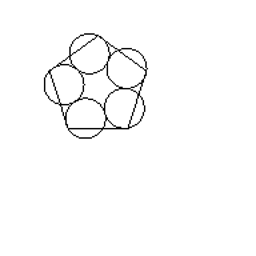
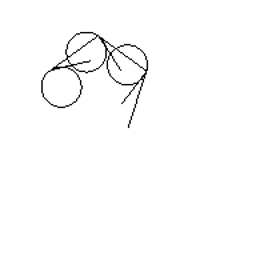
more message passing

Changed region(s): [[0.1562, 0.125, 0.5938, 0.5625], [0.5, 0.4375, 0.5625, 0.5], [0.5625, 0.4062, 0.5938, 0.4375]]

diff --git a/src/flatland/lispy/primitives.py b/src/flatland/lispy/primitives.py
@@ -59,60 +59,50 @@ class DAG(Procedure):
     def __init__(self, body, env):
         super().__init__((), body, env)
 
-    def __call__(self, node):
+    def __call__(self, snode):
         env = Env((), (), self.env)
         for expr in self.body:
             evalf(expr, env)
-        env[node].store()
-        env[node]()
+
+        start = dict(position=(64, 64), heading=0)
+        messages = [(snode, start)]
+
+        while len(messages) > 0:
+            msg = messages.pop(0)
+            node, data = msg
+            if data:
+                print("Processing:", node, data)
+                results = env[node](data)
+                messages = messages + results
 
 
 class Node(Procedure):
-    def __init__(self, name, body, env):
-        super().__init__((), body, env)
+    def __init__(self, name, env):
+        super().__init__((), (), env)
         self.name = name
-        self.input = None
-        self.outputs = []
         self.targets = []
-        self.position = None
-        self.heading = None
 
-    def reset(self):
-        pass
-
-    def store(self):
-        self.position = config.TURTLE.position()
-        self.heading = config.TURTLE.heading()
-
-    def restore(self):
-        config.TURTLE.moveto(self.position)
-        config.TURTLE.setheading(self.heading)
-
-    def forward(self):
-        self.store()
-
-        l0 = len(self.outputs)
-        # l1 = len(self.targets)
+    def forward(self, data):
+        outdata = dict(**data)
+        outdata["position"] = config.TURTLE.position()
+        outdata["heading"] = config.TURTLE.heading()
+        results = []
         for i, nodename in enumerate(self.targets):
-            node = self.env[nodename]
-            node.reset()
-            if i > l0 - 1:
-                node.input = self.input
-            else:
-                node.input = self.outputs[i]
+            results.append((nodename, outdata))
+        return results
 
-            if node.position is None:
-                node.position = self.position
-            if node.heading is None:
-                node.heading = self.heading
+    def valid_message(self, data):
+        if data.get("position", None):
+            config.TURTLE.moveto(data["position"])
+            config.TURTLE.setheading(data["heading"])
+            return True
+        return False
 
-            node()
-            self.restore()
-
-    def __call__(self):
-        answer = evalf(self.body, Env((), (), self.env))
-        self.forward()
-        return answer
+    def __call__(self, data):
+        if self.valid_message(data):
+            results = self.forward(data)
+            return results
+        return []
 
 
 def loop_reset(node):
@@ -123,50 +113,62 @@ def loop_reset(node):
 
 
 class LoopNode(Node):
-    def __init__(self, name, start, end, body, env):
-        super().__init__(name, body, env)
+    def __init__(self, name, start, end, env):
+        super().__init__(name, env)
         self.start = start
         self.end = end
-        self.i = start
+        self.passinfo = dict()
 
     def reset(self):
         self.i = self.start
         loop_reset(self)
 
-    def __call__(self):
-        env = Env(("i"), (self.i,), self.env)
-        while self.i < self.end:
-            for expr in self.body:
-                evalf(expr, env)
-            self.forward()
-            self.i += 1
-        return None
+    def forward(self, data):
+        outdata = dict(**data)
+        outdata["position"] = config.TURTLE.position()
+        outdata["heading"] = config.TURTLE.heading()
+        results = []
+        for i, nodename in enumerate(self.targets):
+            loop_node = not check_acyclic(self.env, self.name, nodename)
+            in_loop = outdata["i"] < self.end
+
+            if not (loop_node ^ in_loop):
+                results.append((nodename, outdata))
+        return results
+
+    def __call__(self, data):
+        if self.valid_message(data):
+            data["i"] = data.get("i", self.start - 1)
+            if data["i"] < self.end:
+                data["i"] = data["i"] + 1
+            return self.forward(data)
+        return []
 
 
 class MoveNode(Node):
-    def __init__(self, name, dist, theta, body, env):
-        super().__init__(name, body, env)
+    def __init__(self, name, dist, theta, env):
+        super().__init__(name, env)
         self.dist = evalf(dist, env)
         self.theta = evalf(theta, env)
 
-    def __call__(self):
-        self.restore()
-        config.TURTLE.left(self.theta)
-        config.TURTLE.forward(self.dist)
-        super().__call__()
+    def __call__(self, data):
+        if self.valid_message(data):
+            config.TURTLE.left(self.theta)
+            config.TURTLE.forward(self.dist)
+            return self.forward(data)
+        return []
 
 
 class TurnNode(Node):
-    def __init__(self, name, theta, body, env):
-        super().__init__(name, body, env)
+    def __init__(self, name, theta, env):
+        super().__init__(name, env)
         self.theta = evalf(theta, env)
 
-    def __call__(self):
-        self.restore()
-        config.TURTLE.left(self.theta)
-        if len(self.targets) == 0:
-            raise SystemError(f"TurnNode ({self.name}) at dead end")
-        super().__call__()
+    def __call__(self, data):
+        if self.valid_message(data):
+            config.TURTLE.left(self.theta)
+            return self.forward(data)
+        return []
 
 
 def check_acyclic(dagenv, fromname, toname):
@@ -254,9 +256,9 @@ def evalf(x, env):
         env[name] = DAG(body, env)
     elif op == "link-node":
         fromnode, tonode = args
-        assert check_acyclic(
-            env, fromnode, tonode
-        ), f"{fromnode} -> {tonode} causes loop in DAG"
+        # assert check_acyclic(
+        #    env, fromnode, tonode
+        # ), f"{fromnode} -> {tonode} causes loop in DAG"
         env[fromnode].targets.append(tonode)
     elif op == "run-dag":
         dagname, nodename = args
